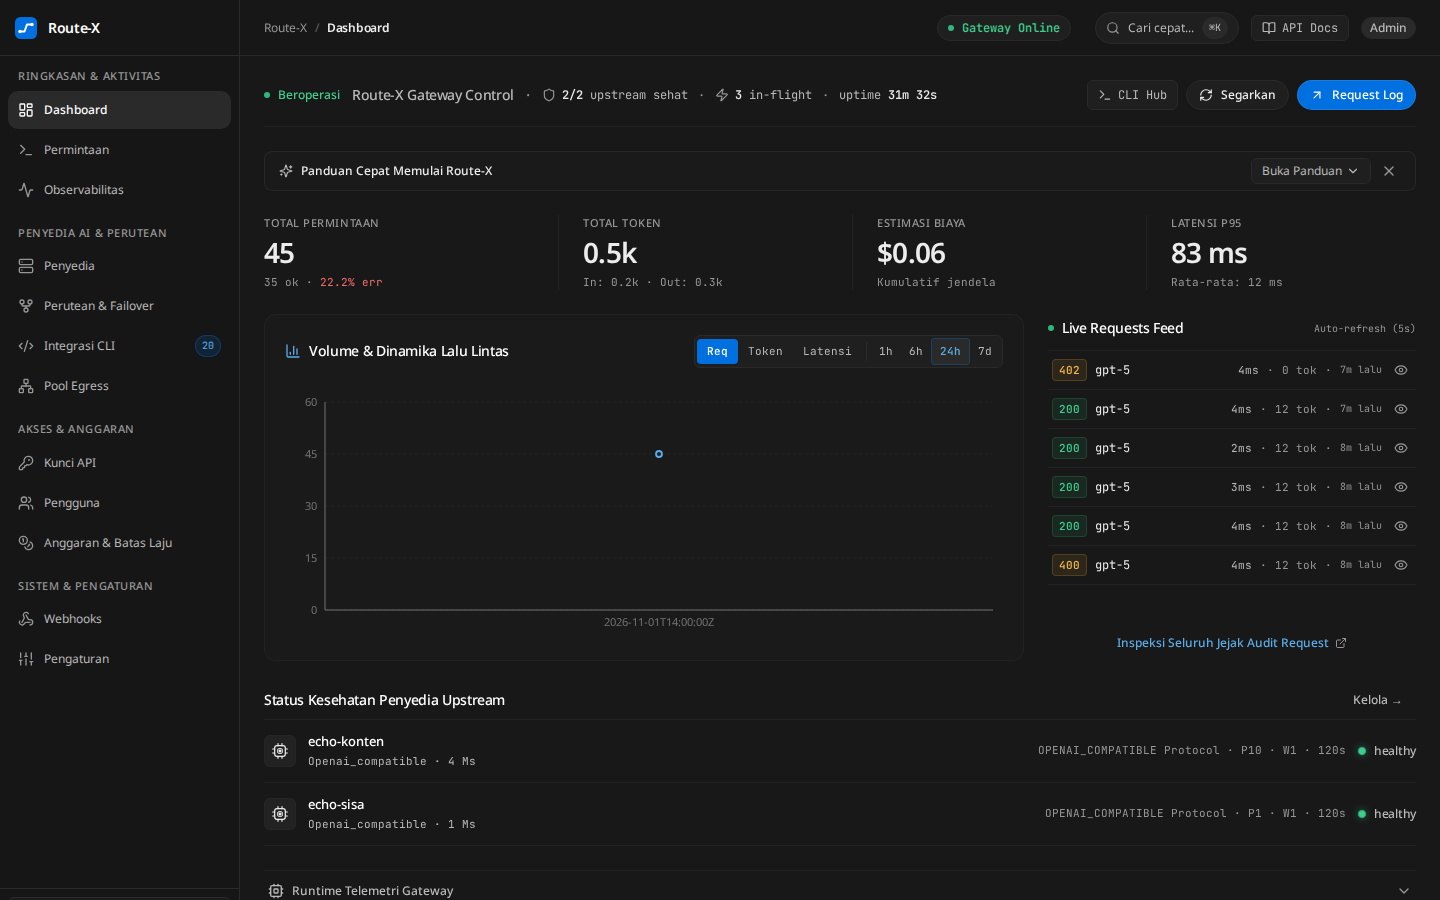
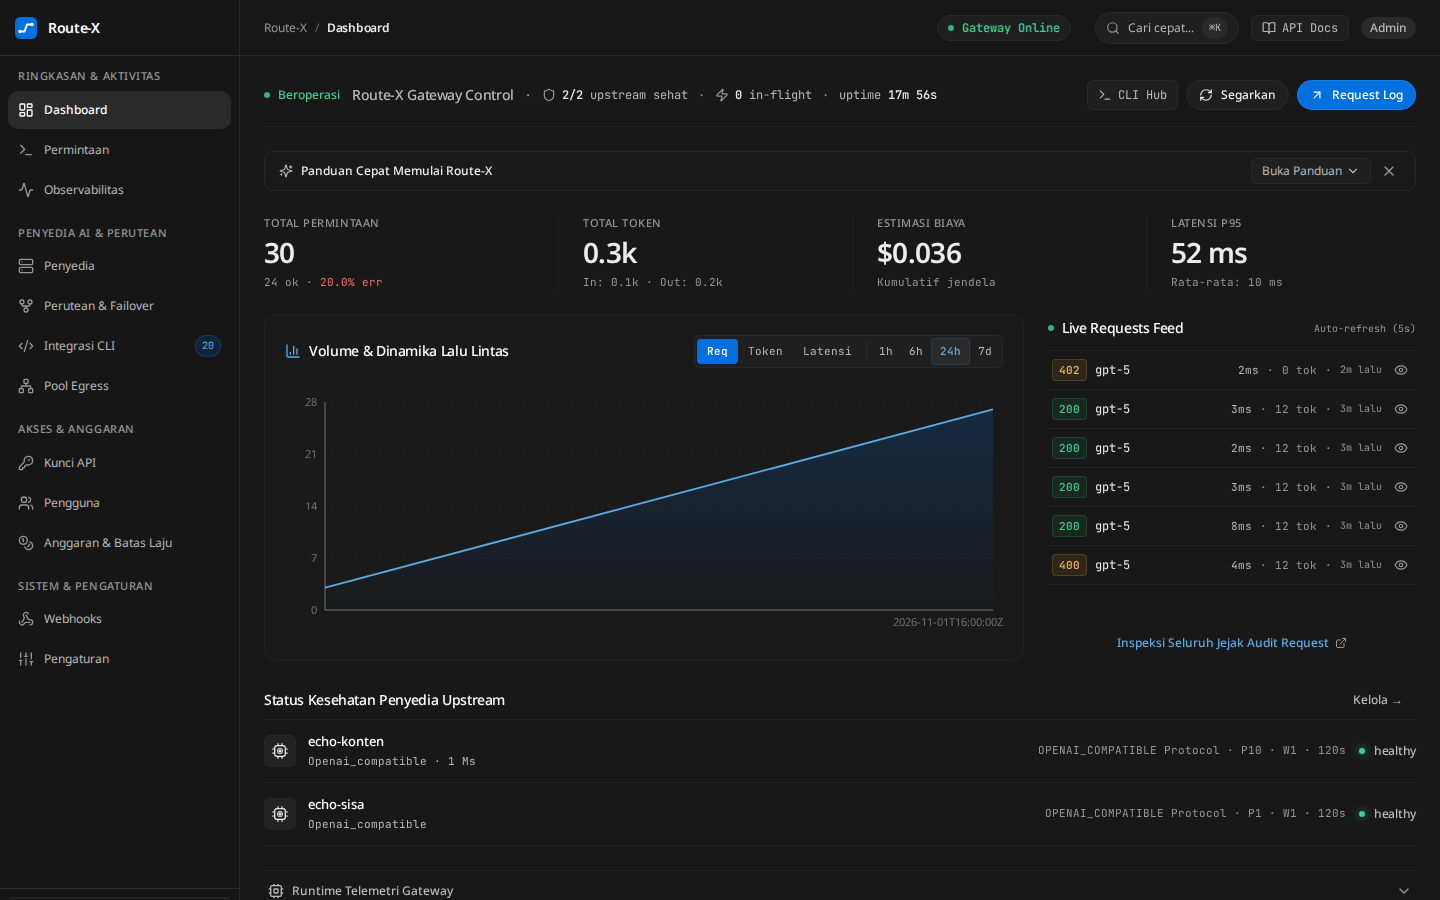
release: persiapkan v1.5.0 (#201)
- Versi 1.5.0 di package.json/lock, main.go, Makefile, openapi,
  install-native.sh (pin RELEASE_TAG + perbaiki echo basi v1.2.1),
  update-live.sh, probe_e2e_gateway.sh, badge & unduhan README
- CHANGELOG: [Unreleased] menjadi [1.5.0] - 2026-11-02 + entri Fase 5/6/7
- README: Dashboard Preview menjadi galeri rinci 10 tangkapan UI Fase 7
  (3 diganti, 7 baru di docs/images) dengan penjelasan tiap permukaan

diff --git a/cmd/ai-gateway/main.go b/cmd/ai-gateway/main.go
@@ -56,7 +56,7 @@ import (
 
 // Diisi saat build lewat -ldflags. Lihat target build di Makefile.
 var (
-	version = "v1.4.0"
+	version = "v1.5.0"
 	commit  = "none"
 	builtAt = "unknown"
 )

diff --git a/README.md b/README.md
@@ -6,7 +6,7 @@
   <strong>A self-hosted, single-admin AI Gateway for personal use and small trusted teams — with native dual-protocol ingestion (OpenAI & Anthropic), intelligent multi-model combo routing, fast in-memory routing decisions, precise budget accounting, and instant developer CLI synchronization.</strong>
 </p>
 
-[![Release](https://img.shields.io/badge/Release-v1.4.0-10B981?style=for-the-badge&logo=github)](https://github.com/NexGen-X/Route-X/releases/tag/v1.4.0)
+[![Release](https://img.shields.io/badge/Release-v1.5.0-10B981?style=for-the-badge&logo=github)](https://github.com/NexGen-X/Route-X/releases/tag/v1.5.0)
 [![Go Version](https://img.shields.io/badge/Go-1.27.3+-00ADD8?style=for-the-badge&logo=go)](https://go.dev)
 [![React](https://img.shields.io/badge/React-18-61DAFB?style=for-the-badge&logo=react)](https://react.dev)
 [![TailwindCSS](https://img.shields.io/badge/Tailwind-3.4-38B2AC?style=for-the-badge&logo=tailwind-css)](https://tailwindcss.com)
@@ -54,13 +54,43 @@ Direct integration with heterogeneous AI model APIs leads to severe operational 
 
 ## 🖥 Dashboard Preview
 
-The embedded dashboard uses the **Calm Console** design language — a Claude-inspired dark theme (`#181818` base, `#0070E0` accent) with a flat, Linear-style layout discipline: typography carries the hierarchy, status is shown once, metrics are plain KPI strips instead of stacked cards, and the full UI is in Bahasa Indonesia. Screenshots below are from the current release UI.
+The embedded dashboard uses the **Calm Console** design language — a Claude-inspired dark theme (`#181818` base, `#161616` sidebar, `#0070E0` accent, pastel status colors, Noto Sans) with a flat, Linear-style layout discipline: typography carries the hierarchy, panels and stacked cards are avoided, metrics are plain KPI strips and rows, and the full UI is in Bahasa Indonesia. Every screenshot below was captured from a live install of the current release; the numbers shown are that test gateway's real recorded traffic — Route-X never renders placeholder or mock data.
+
+### Desktop
+
+**Dashboard** — one plain status line, a flat KPI strip (requests, error rate, tokens & cost, cache hit), a provider health matrix rendered as simple rows, and a live request feed. Nothing competes for attention; status is shown exactly once.
 
 ![Route-X Dashboard — desktop](docs/images/dashboard-desktop.png)
 
-| Providers (desktop) | Dashboard (mobile PWA) |
-|---|---|
-| ![Route-X Providers — desktop](docs/images/penyedia-desktop.png) | <img src="docs/images/dashboard-mobile.png" alt="Route-X Dashboard — mobile" width="300"> |
+**Providers** — every upstream as a two-line row: status dot, model count, priority and weight. Provider presets (OpenAI, Anthropic, Google, OpenRouter, local runtimes, and more) are added with a single click, then mapped to models with per-provider pricing.
+
+![Route-X Providers — desktop](docs/images/penyedia-desktop.png)
+
+**Observability & Telemetry** — underline metric tabs (Requests, Throughput, Tokens, Error Rate, Cost, P95 Latency) over one large chart, traffic composition as thin bars broken down by provider / model / API key, server & connection-pool health as plain rows, and a system-health checklist consolidated from the former Diagnostics page.
+
+![Route-X Observability — desktop](docs/images/observabilitas-desktop.png)
+
+**Command Palette (`Ctrl+K` / `⌘K`)** — a Raycast-style palette for the whole console: results grouped by category (Navigation, Quick Actions, CLI Tools), full keyboard navigation, no mouse required.
+
+![Route-X Command Palette — desktop](docs/images/palet-perintah-desktop.png)
+
+**API Keys** — key rows with masked secret, RPM/TPM limits, last-used time, and model/provider scope. When a key has a budget registered in the Budgets system, the row also shows a thin **budget bar with real recorded spend versus its limit** (amber at the alert threshold, red at 100%) — keys without a budget show no bar at all.
+
+![Route-X API Keys — desktop](docs/images/kunci-api-desktop.png)
+
+**Settings** — Linear-style left sub-navigation with panel-free content: label–description–control rows for Domain & HTTPS (with DNS guidance and automatic Let's Encrypt), Performance & Cache, Backup & Recovery, and free-form Advanced runtime parameters.
+
+![Route-X Settings — desktop](docs/images/pengaturan-desktop.png)
+
+### Mobile (responsive web + PWA — no separate native app)
+
+| Dashboard | Providers | API Keys with budget bar |
+|---|---|---|
+| <img src="docs/images/dashboard-mobile.png" alt="Route-X Dashboard — mobile" width="260"> | <img src="docs/images/penyedia-mobile.png" alt="Route-X Providers — mobile" width="260"> | <img src="docs/images/kunci-api-mobile.png" alt="Route-X API Keys with per-key budget bar — mobile" width="260"> |
+
+**Request detail as a bottom sheet** — tapping any request in the mobile list raises its full inspector as a sheet from the bottom (status, tokens, cost, latency waterfall, event timeline, payload & cURL) without leaving the list or losing scroll context.
+
+<img src="docs/images/permintaan-sheet-mobile.png" alt="Route-X Request detail bottom sheet — mobile" width="300">
 
 ---
 
@@ -207,11 +237,11 @@ Historical benchmark results measured on a dedicated **Intel(R) Xeon(R) Platinum
 Download and run the official static Linux binary with zero build steps:
 
 ```bash
-# 1. Download official v1.4.0 release
-curl -fsSLO https://github.com/NexGen-X/Route-X/releases/download/v1.4.0/routex-v1.4.0-linux-amd64.tar.gz
+# 1. Download official v1.5.0 release
+curl -fsSLO https://github.com/NexGen-X/Route-X/releases/download/v1.5.0/routex-v1.5.0-linux-amd64.tar.gz
 
 # 2. Extract archive
-tar -xzvf routex-v1.4.0-linux-amd64.tar.gz
+tar -xzvf routex-v1.5.0-linux-amd64.tar.gz
 
 # 3. Apply schema migrations & run gateway
 ./ai-gateway -migrate

diff --git a/CHANGELOG.md b/CHANGELOG.md
@@ -6,7 +6,20 @@ Format berkas ini mengacu pada prinsip [Keep a Changelog](https://keepachangelog
 
 ## [Unreleased]
 
+## [1.5.0] - 2026-11-02
+
+Rilis penyelarasan penuh Calm Console: seluruh antarmuka kini mengikuti bahasa desain sampel secara utuh — Pengaturan tanpa panel, palet perintah berkelompok, Observabilitas tanpa kartu, lembar bawah detail Permintaan di mobile, dan batang anggaran per kunci dari data nyata — di atas fondasi konsolidasi Fase 2 dan perombakan UI/UX Fase 3–4. Installer native kini mematok tag rilis v1.5.0 sehingga unduhan biner resmi dan fallback kompilasi sama-sama menghasilkan versi ini.
+
+### Added
+- **Batang anggaran per kunci API** (Fase 7, PR #200): baris kunci menampilkan batang tipis belanja tercatat versus batas dari entitas Budget (`scope: api_key`) — hanya untuk kunci yang benar-benar memiliki anggaran terdaftar.
+- **Lembar bawah (bottom sheet) detail Permintaan di mobile** (Fase 7, PR #200) lewat prop `sheetOnMobile` pada Modal bersama; pemakai Modal lain tidak berubah.
+- **Palet perintah berkelompok per kategori** (Fase 7, PR #199): hasil Ctrl+K kini dikelompokkan Navigasi / Aksi Cepat / Perkakas CLI dengan judul grup.
+- **Galeri dokumentasi visual README yang rinci**: 10 tangkapan layar UI terkini (desktop + mobile) dengan penjelasan tiap permukaan, diganti dari instalasi nyata rilis ini.
+
 ### Changed
+- **Penyelarasan tema persis ke sampel (Fase 6, PR #196–#197)**: token warna disamakan piksel-per-piksel dengan sampel Calm Console (sidebar netral `#161616`, status pastel `#3ECF8E`/`#F26D6D`/`#F5B84C`, teks `#ECECEC`/`#B9B9B9`) dan font sans resmi diganti Inter → **Noto Sans**; screenshot README diganti build Fase 6.
+- **Pengaturan & Observabilitas tanpa panel (Fase 7, PR #198–#199)**: seluruh isi tab Pengaturan (Domain, Cache, Cadangan, Lanjutan) dan tiga panel terakhir Observabilitas diratakan menjadi baris/seksi polos bergaris rambut mengikuti sampel.
+- **Sinkronisasi repo (Fase 5, PR #194–#195)**: README, CHANGELOG, prompt agen, dan seluruh skrip diselaraskan ke keadaan kode (versi tampil installer & probe v1.4.0 pada masanya, tautan `file:///root` diperbaiki).
 - **Calm Console (Fase 4, PR #191–#193)**: perampingan visual menyeluruh mengikuti tema gelap Muse — versi tidak lagi tampil berulang di shell, hero Dashboard menjadi baris status tunggal, metrik menjadi strip KPI tanpa kartu bertumpuk, kartu Penyedia & Kunci API menjadi daftar baris, Observabilitas memakai tab garis bawah, dan Pengaturan memakai sub-navigasi ala Linear. Terverifikasi E2E menyeluruh 229 tes (0 gagal) dan audit kontras axe 0 pelanggaran.
 - **Bahasa Indonesia penuh untuk UI (Fase 3, PR #186)** mengikuti glosarium baku, dan **logo digambar ulang flat "Ubin Rute"** (PR #185) termasuk favicon dan ikon PWA. Versi aplikasi kini bersumber tunggal dari `web/package.json` dan badge jumlah tool CLI dihitung dari registri backend, bukan angka statis (PR #184).
 - **Konsolidasi permukaan (Fase 2, PR #175–#181)**: halaman Diagnostics dipensiunkan ke seksi Kesehatan Sistem di Observabilitas, kontrol cache dipindah ke tab Performa & Cache di Pengaturan, panel circuit breaker menampilkan konfigurasi efektif dari aturan prioritas tertinggi, dan 23 alias rute API lama yang terbukti nol konsumen dipangkas (3 alias baca dipertahankan).
